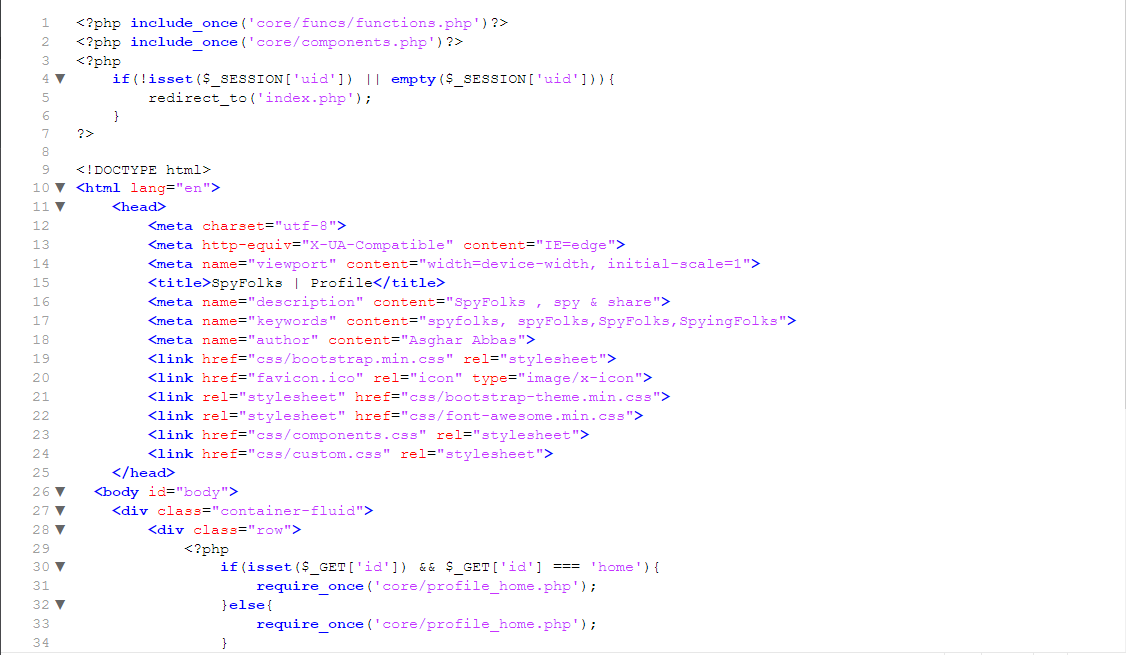
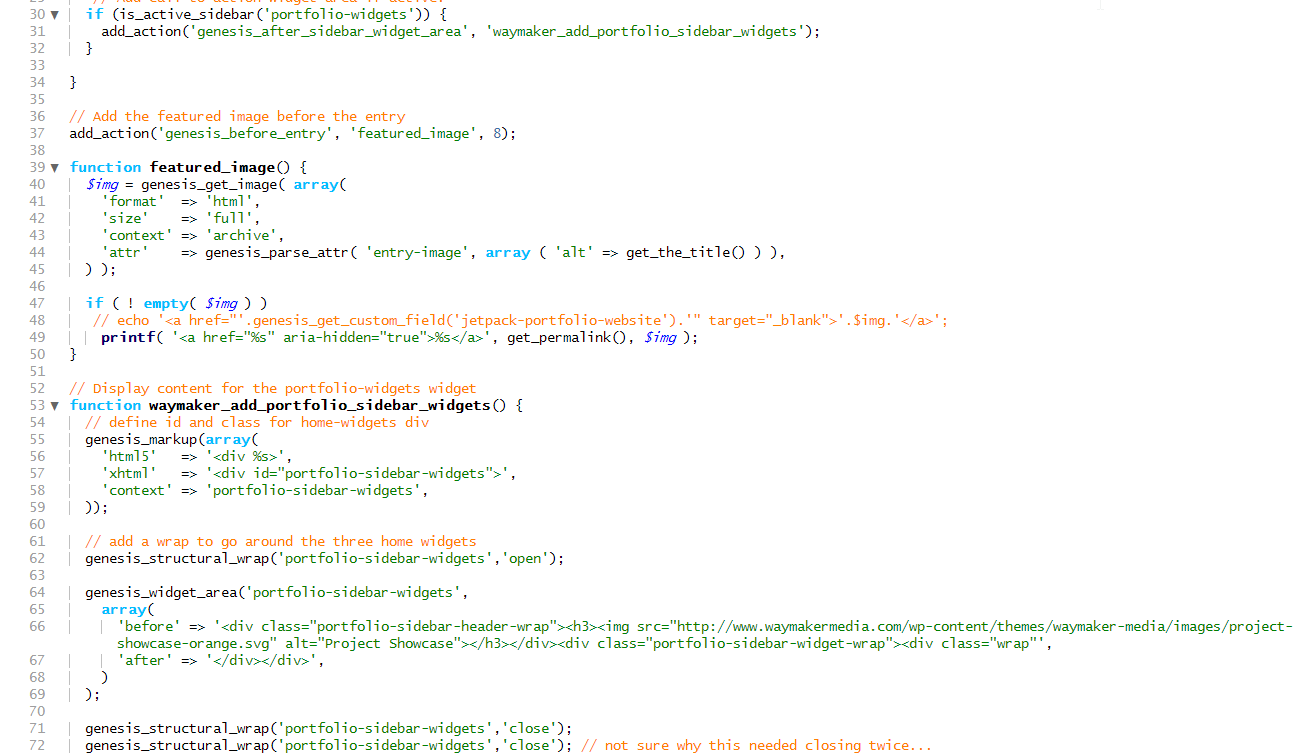
Added files via upload

diff --git a/theme.less b/theme.less
@@ -8,7 +8,7 @@
     color: @foreground;
     font-family: "Lucida Console";
     font-weight: 100;
-    font-size: 15px;
+    font-size: 14px;
 }
 
 .CodeMirror-focused .CodeMirror-activeline-background {
@@ -21,8 +21,7 @@
 
 .CodeMirror-focused .CodeMirror-activeline {
     .CodeMirror-gutter-elt {
-        background: rgba(0, 0, 0, 0.2);
-         font-family: "Lucida Console";
+        background: #E8E8FF;
         color: #fff;
     }
     .inline-widget .CodeMirror-gutter-elt {
@@ -32,18 +31,22 @@
 .cm-m-clike.cm-string{
     color: #efefef;
 }
-.cm-atom, .cm-string, .cm-string-2, .cm-hr {color: rgb(200, 50, 255);}
-.cm-number, .cm-attribute, .cm-plus {color: rgb(255, 0, 0);}
-.cm-def, .cm-property {color: #9f9f9f; font-weight: 600;}
+.cm-atom, .cm-string, .cm-string-2, .cm-hr {color: #000000;}
+.cm-number, .cm-attribute, .cm-plus {color: #3A6DA5;}
+.cm-def, .cm-property {color: #FF4000; font-weight: 400;}
 .cm-variable, .cm-variable-2, .cm-variable-3, .cm-operator, .cm-meta, .cm-bracket {color: @foreground;}
-.cm-comment {color: rgb(0,128,0);}
+.cm-comment {color:#FF8000;}
 .cm-error, .cm-minus {color: #dc322f;}
 .cm-header {color: #d85896;}
-.cm-link {color: #b77fdb; text-decoration: none;}
+.cm-link {color: #000000; text-decoration: none;}
 .cm-rangeinfo {color: #6c71c4;}
-.cm-keyword, .cm-qualifier, .cm-builtin, .cm-tag, .cm-quote {
-    color: rgb(0, 0, 255);
-    font-weight: 800;
+.cm-keyword {
+    color: #0A246B;
+    font-weight: 600;
+}
+.cm-qualifier, .cm-builtin, .cm-tag, .cm-quote {
+    color: #638000;
+    font-weight: 400;
 }
 /* Extra CSS */
 
@@ -81,8 +84,9 @@
 
 .CodeMirror-matchingbracket, .CodeMirror-matchingtag {
     /* Ensure visibility against gray inline editor background */
-    background-color: rgba(128, 0, 255,.3);
-    color: @foreground !important;
+    background-color: @background;
+    color: #ff0000 !important;
+    font-weight: 800;
 }
 
 .CodeMirror-overwrite .CodeMirror-cursor {
@@ -161,15 +165,20 @@
     color: @foreground;
 }
 
-
+// PHP
 .cm-m-clike.cm-string{
-    color:#9f9f9f;
+    color:#008000;
 }
-.cm-m-clike.cm-keyword{color: rgb(0, 0, 255);font-weight:bold}
+.cm-m-clike.cm-keyword{color: deepskyblue;font-weight:bold}
+
+.cm-m-clike.cm-def, .cm-m-clike.cm-property {
+    color: #000;
+    font-weight: bold;
+}
 // css id's; php: define, var_dump
 .cm-m-clike.cm-builtin{
     color: #006;
     font-weight:bold;
 }
-.cm-m-clike.cm-variable-2{color: rgb(0, 0, 255);} // css: @font-face; php var name
-.cm-m-clike.cm-variable{color: rgb(0, 0, 255); font-weight: 600;} //js: window, console, function names; php function name, arguments
+.cm-m-clike.cm-variable-2{color: rgb(0, 0, 255); font-style: italic;} // css: @font-face; php var name
+.cm-m-clike.cm-variable{color: #000; } //js: window, console, function names; php function name, arguments
